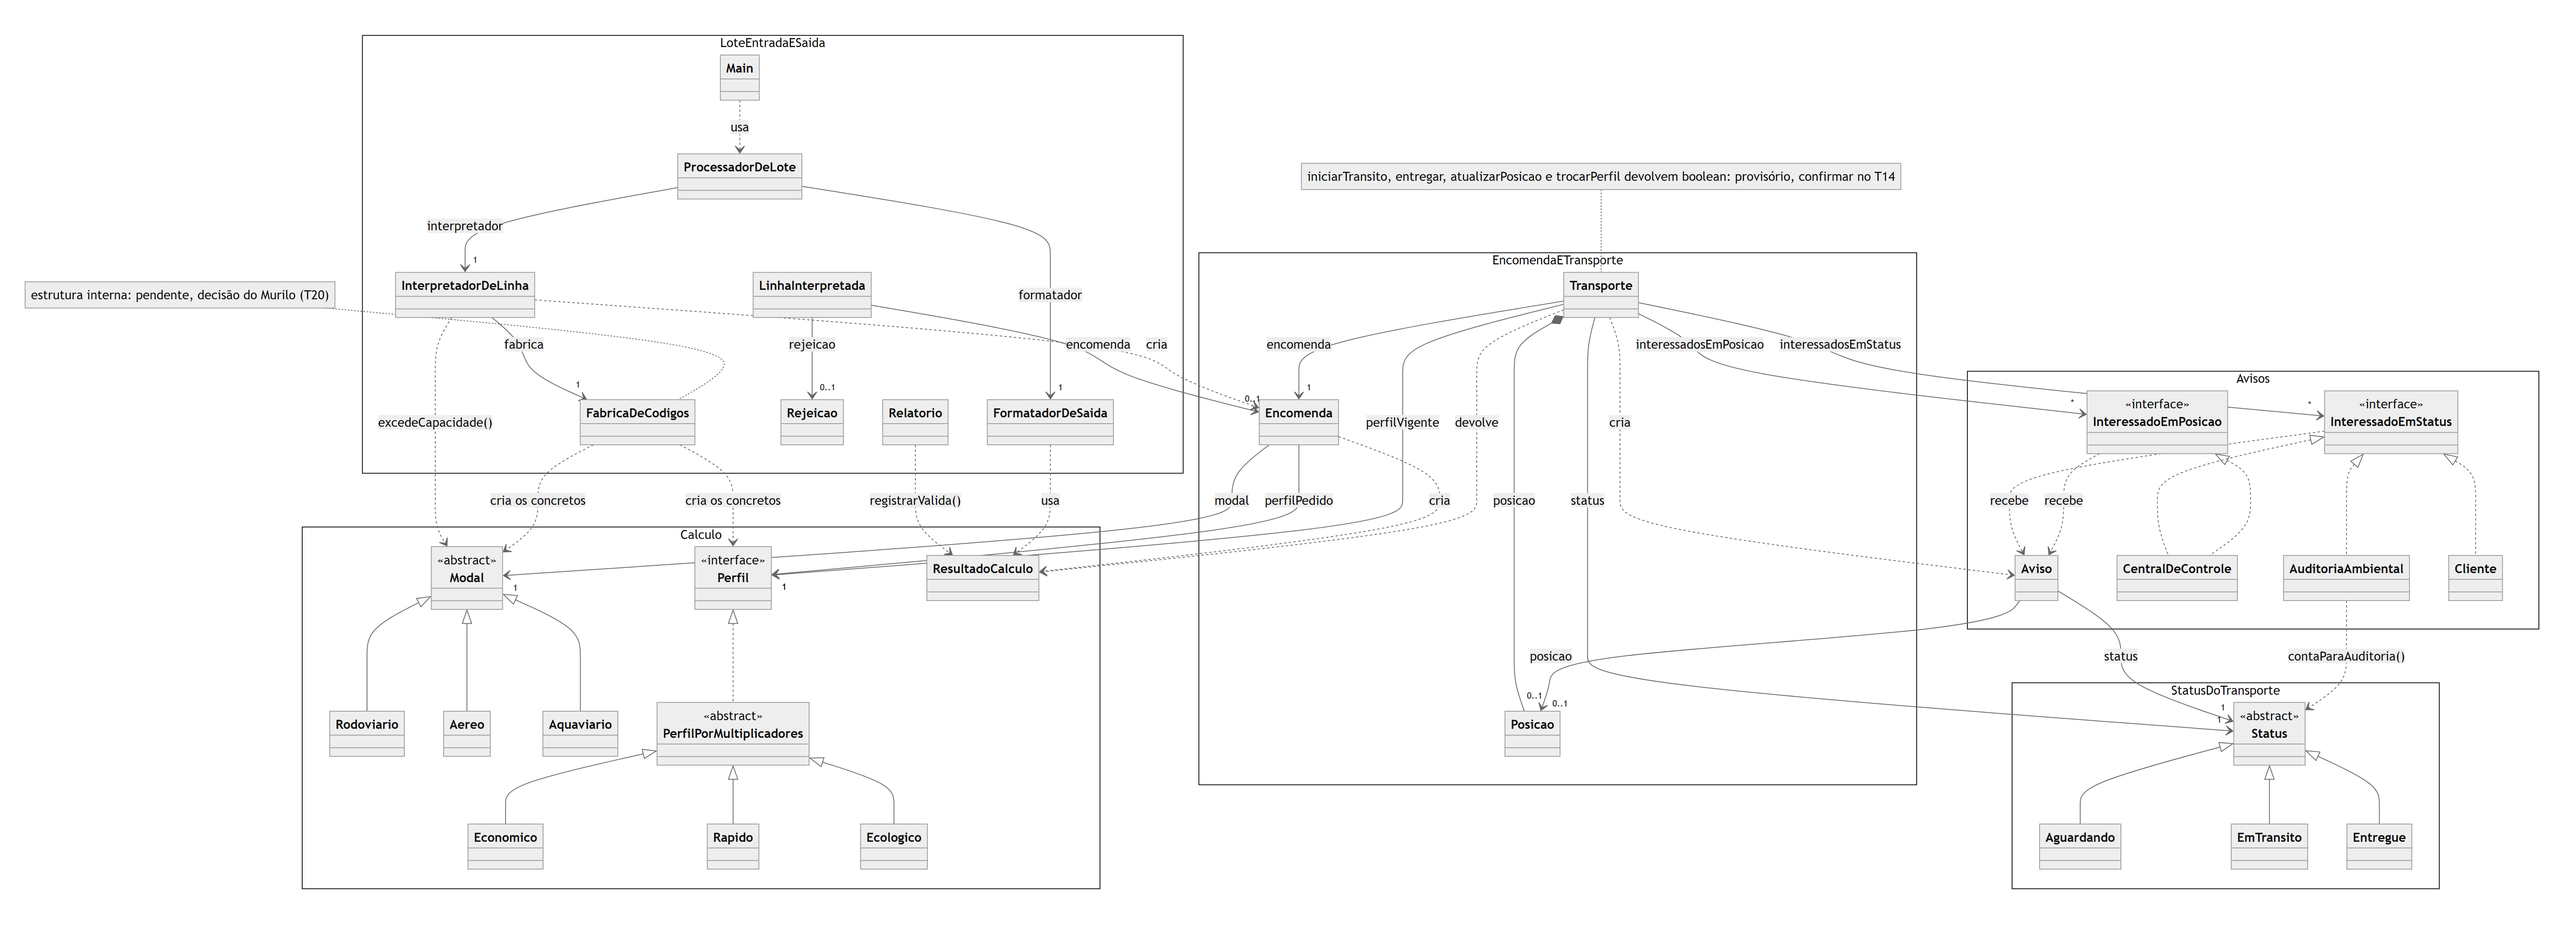
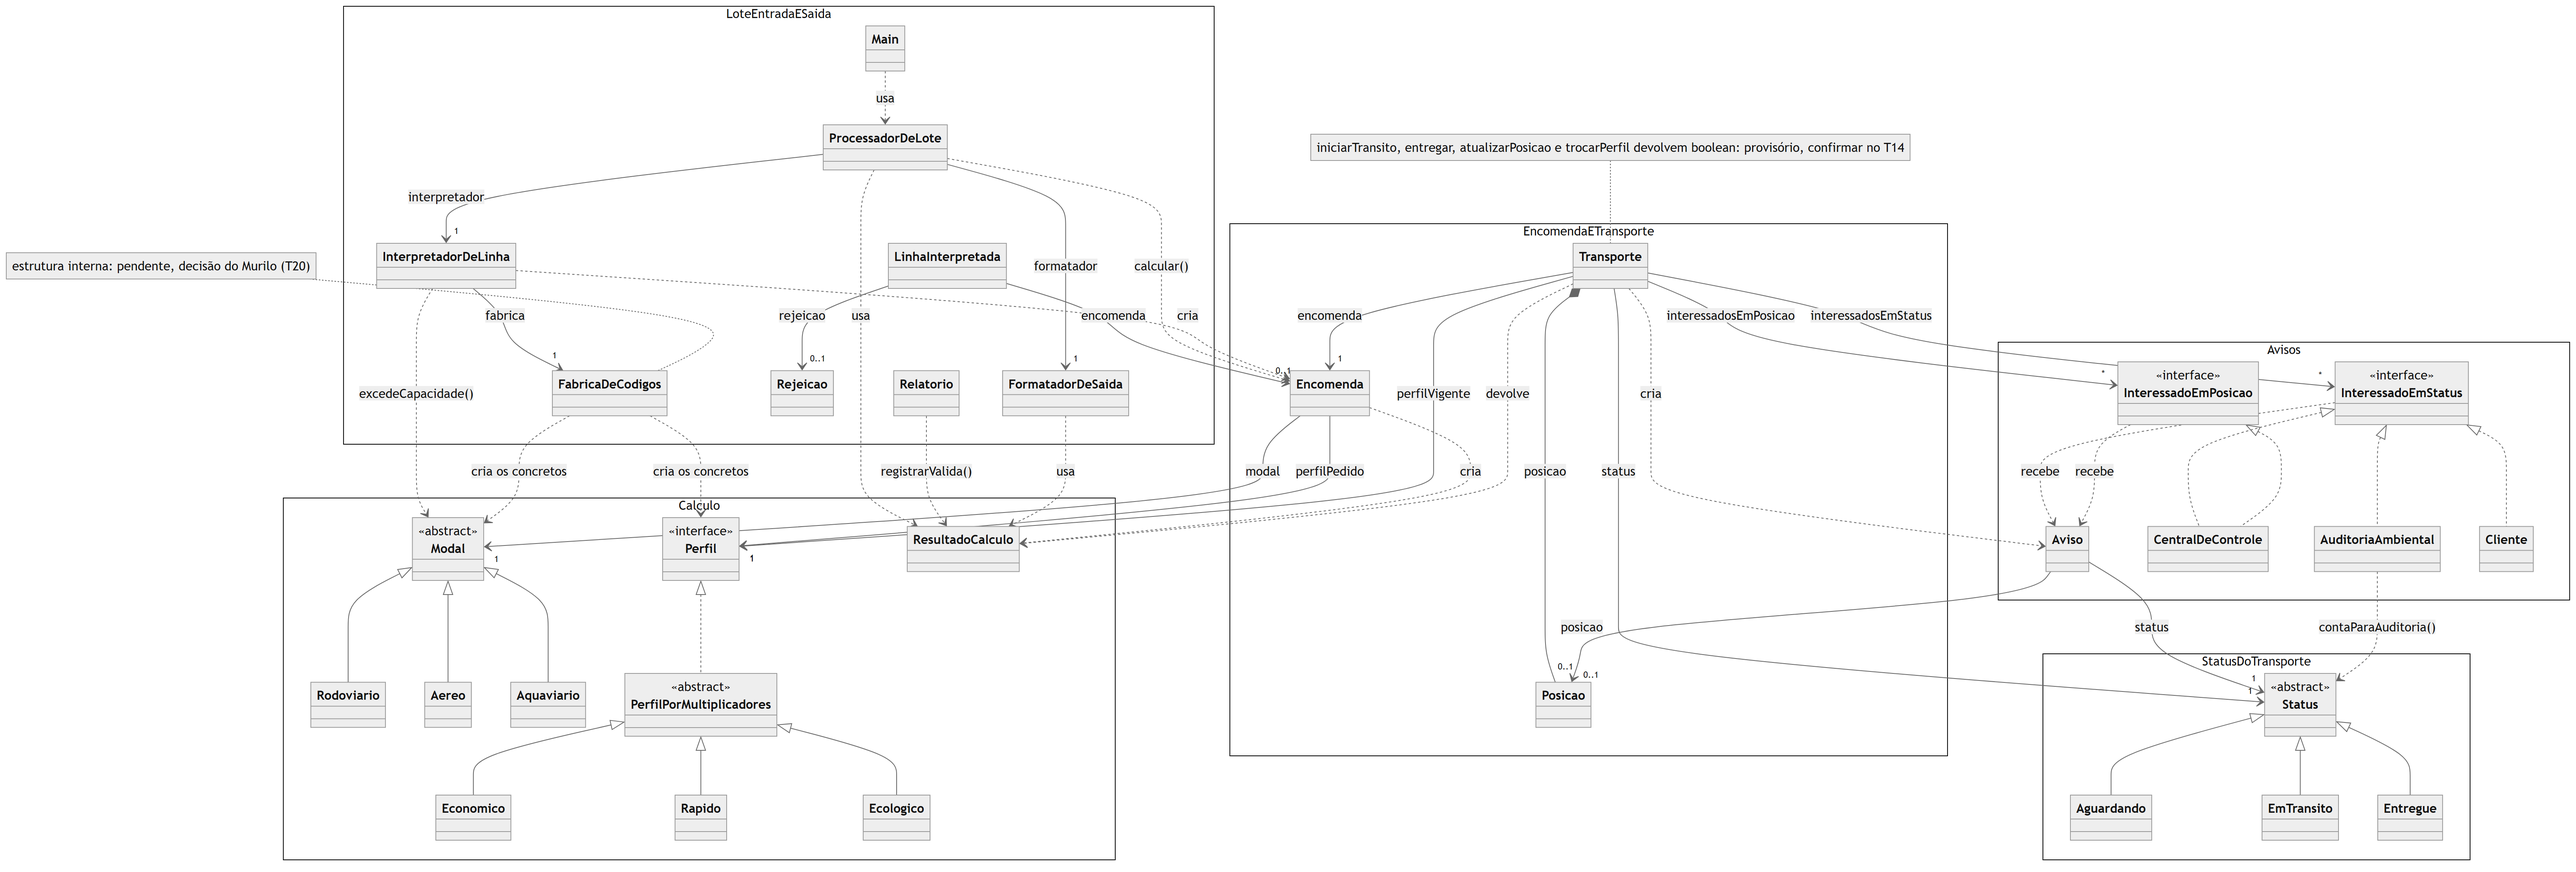
T09: ajustes da revisão do PR 40
- 3.1: setas do ProcessadorDeLote para Encomenda (calcular()) e
  ResultadoCalculo, e PNG da visão geral gerado de novo
- 3.1: a frase de abertura cita a seta do Main e as dos interessados
  para o Aviso
- Remove do PR a pasta .idea/ (configuração local do IntelliJ)
- relatorio_ia_notas.md: autor no formato "Liliane (lilianeperim-ifsp)"

diff --git a/docs/relatorio_ia_notas.md b/docs/relatorio_ia_notas.md
@@ -76,8 +76,8 @@ Preencha uma linha por caso, assim que ele acontecer. A skill `/salvar-memoria` 
 | 2026-11-17 | Liliane (lilianeperim-ifsp) | erro (processo) | No `/documento`, não mostrou o texto completo do documento, como a skill manda | Desvio da skill por causa do tamanho (832 linhas, 66 KB) | Avisou antes de pedir a aprovação, mostrou o resumo por seção e o link; a Liliane aprovou a geração. Fica a decisão do grupo de ajustar a skill |
 | 2026-11-18 | Murilo Leandro | erro (processo) | Disse que o commit `c67327e` ainda precisava de PR e tentou abrir um com `gh pr create` | O PR #31 já existia para a mesma branch desde a noite anterior; o Claude não conferiu os PRs abertos | O GitHub recusou o PR duplicado; o #31 foi conferido e usado, sem PR novo |
 | 2026-11-18 | Murilo Leandro | rejeicao (interface) | Na versão 9 do quadro Kanban, trocou o cabeçalho pelo do modelo novo (resumo em linha com os números) | O Murilo preferiu o cabeçalho da versão 8, com as etiquetas das duas etapas, mantendo os mesmos dados | Versão 10 do quadro com o cabeçalho antigo e os números de atrasadas e esperando dentro de cada etiqueta |
-| 2026-11-18 | Liliane Perim | erro (documentação) | No T09, ao enxugar a visão geral do diagrama de classes (seção 3.1), apagou as dependências internas de cada grupo e levou junto a única seta do `Main` (`Main ..> ProcessadorDeLote`) | O `Main` ficou solto no diagrama, sem nenhuma ligação, como se não participasse do sistema | O próprio Claude percebeu ao conferir o PDF gerado, antes de a Liliane revisar, e devolveu a seta |
-| 2026-11-18 | Liliane Perim | erro (documentação) | Na legenda "Como ler" da seção 3, escreveu que os construtores ficavam de fora dos diagramas por grupo | Os diagramas mostravam os construtores (`Encomenda`, `Transporte`, `LinhaInterpretada` e outros): o texto contradizia a figura | O próprio Claude percebeu ao conferir o PDF, antes de a Liliane revisar, e reescreveu a legenda: alguns getters simples ficam de fora, e os construtores aparecem quando os parâmetros importam |
+| 2026-11-18 | Liliane (lilianeperim-ifsp) | erro (documentação) | No T09, ao enxugar a visão geral do diagrama de classes (seção 3.1), apagou as dependências internas de cada grupo e levou junto a única seta do `Main` (`Main ..> ProcessadorDeLote`) | O `Main` ficou solto no diagrama, sem nenhuma ligação, como se não participasse do sistema | O próprio Claude percebeu ao conferir o PDF gerado, antes de a Liliane revisar, e devolveu a seta |
+| 2026-11-18 | Liliane (lilianeperim-ifsp) | erro (documentação) | Na legenda "Como ler" da seção 3, escreveu que os construtores ficavam de fora dos diagramas por grupo | Os diagramas mostravam os construtores (`Encomenda`, `Transporte`, `LinhaInterpretada` e outros): o texto contradizia a figura | O próprio Claude percebeu ao conferir o PDF, antes de a Liliane revisar, e reescreveu a legenda: alguns getters simples ficam de fora, e os construtores aparecem quando os parâmetros importam |
 | 2026-11-18 | Alexandre Santos | erro (processo) | Testou o script do PR #31 com um comando encadeado que rodou um arquivo vazio e mostrou "exit=0" | O Git Bash converteu `origin/logitech/murilolss:.github/...` como caminho do Windows, o `git show` falhou e o comando seguinte rodou mesmo assim, o que podia virar evidência falsa de que o script funcionava | O próprio Claude viu o `fatal: ambiguous argument` e a falta do "sintaxe ok", repetiu com `MSYS_NO_PATHCONV=1` (142 linhas) e só usou os resultados válidos na aprovação do PR #31 |
 | 2026-11-18 | Alexandre Santos | erro (dados) | Disse que a memória `2026-11-18-diagrama-de-classes-t09.md` chegaria à branch do Alexandre no próximo `/atualizar-branch` | Ela já estava na branch, trazida por um dos pulls feitos ao fechar os recados do PDF e do quadro; o Claude não conferiu antes de afirmar | O próprio Claude conferiu com `git log` no `/atualizar-branch` seguinte e corrigiu a informação, citando o commit `24cd9b6`; nada foi decidido com base no erro |
 

diff --git a/docs/Documento_de_Projeto.md b/docs/Documento_de_Projeto.md
@@ -423,8 +423,9 @@ diagrama diz quais. Os construtores aparecem quando os parâmetros importam.
 
 ### 3.1 Visão geral
 
-As dependências de dentro de cada grupo ficam nos diagramas 3.2 a 3.6. Aqui aparecem só as que ligam grupos
-diferentes. A `FabricaDeCodigos` cria os seis modais e perfis concretos, e o diagrama resume essas seis setas em duas,
+As dependências de dentro de cada grupo ficam nos diagramas 3.2 a 3.6. Aqui aparecem as que ligam grupos
+diferentes e mais três de dentro do grupo: a do `Main`, que ficaria solto, e as de `InteressadoEmStatus` e
+`InteressadoEmPosicao` para o `Aviso`, que mostram o que os interessados recebem. A `FabricaDeCodigos` cria os seis modais e perfis concretos, e o diagrama resume essas seis setas em duas,
 para `Modal` e `Perfil`.
 
 ```mermaid
@@ -521,6 +522,8 @@ classDiagram
     InterpretadorDeLinha --> "1" FabricaDeCodigos : fabrica
 
     Main ..> ProcessadorDeLote : usa
+    ProcessadorDeLote ..> Encomenda : calcular()
+    ProcessadorDeLote ..> ResultadoCalculo : usa
     Encomenda ..> ResultadoCalculo : cria
     Transporte ..> ResultadoCalculo : devolve
     Transporte ..> Aviso : cria
